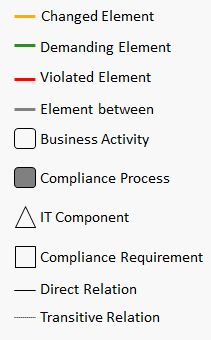
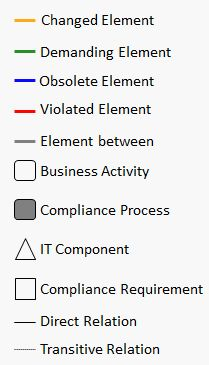
Legende Analyse angepasst

Changed region(s): [[0.0574, 0.2059, 0.9761, 0.9706], [0.0574, 0.1176, 0.8325, 0.1765], [0.0574, 0.0294, 0.7464, 0.0882]]

diff --git a/src/app/control/analyze-helper.js b/src/app/control/analyze-helper.js
@@ -26,13 +26,18 @@ function replaceITDirect(graph, node, result_graph) {
   for (let i = 0; i < predecessors.length; i++) {
     let pred = predecessors[i];
 
-    if (pred.data('nodetype') == 'compliance') {
+    if (pred.data('nodetype') === 'compliance') {
       creategraph.addUniqueNode(result_graph, {node: pred}, 'directdemand');
 
       let nodes_between = querygraph.getNodesBetween(pred, _node);
       for (let j = 0; j < nodes_between.length; j++) {
         let node = nodes_between[j];
-        creategraph.addUniqueNode(result_graph, {node: node}, 'between');
+
+        if (node.data('nodetype') === 'compliance') {
+          creategraph.addUniqueNode(result_graph, {node: node}, 'directdemand');
+        } else {
+          creategraph.addUniqueNode(result_graph, {node: node}, 'between');
+        }
       }
     }
   }
@@ -142,7 +147,7 @@ function deleteITObsolete(graph, node, result_graph) {
     for (let j = 0; j < dir_IT_pred.length; j++) {
       let help_node = dir_IT_pred[j];
 
-      if (help_node.data('modeltype') == 'compliance') {
+      if (help_node.data('modeltype') === 'compliance') {
         let addNode = containNoOtherNode(querygraph.getDirectSuccessor(help_node), IT_suc);
 
         if (addNode) { // if compliance has more than one successor, dont remove it

diff --git a/src/app/control/rendergraph.js b/src/app/control/rendergraph.js
@@ -238,7 +238,6 @@ function updateBusinessProcess(node) {
 
   let dir_comp_preds = querygraph.getDirectPredecessor(changed_node, 'compliance');
   for (let i = 0; i < dir_comp_preds.length; i++) {
-
     let compliance = dir_comp_preds[i];
 
     let x_compliance = x_changed + (i + 1) * 100;
@@ -265,6 +264,19 @@ function updateBusinessProcess(node) {
         drawCompliancePreds(pred, comp_preds);
       }
     }
+  }
+
+  //draw IT preds vertical
+  let it_preds = querygraph.getPredecessors(changed_node, 'infra');
+  for (let i = 0; i < it_preds.length; i++) {
+    let infra = it_preds[i];
+
+    let x_infra = x_changed;
+    let y_infra = y_changed - (i + 1) * 100;
+    infra.position({x: x_infra, y: y_infra});
+    //draw compliance preds horizontal
+    let comp_preds = querygraph.getPredecessors(infra, 'compliance');
+    drawCompliancePreds(infra, comp_preds);
   }
 }
 

diff --git a/app/app.html b/app/app.html
@@ -78,7 +78,7 @@
   <div class="container-properties" id="infra-panel" draggable="true">
     <div class="bpp-properties-group" data-group="complianceGrp">
       <span class="group-toggle"></span>
-      <span class="group-label">Infrastructure</span>
+      <span class="group-label">IT Architecture</span>
       <div class="bpp-properties-entry bpp-textfield" data-entry="id">
         <label for="infra-id">Id</label>
         <div class="bpp-field-wrapper">
@@ -196,7 +196,7 @@
       </div>
       <div class="legend">
         <p>Legend</p>
-        <img src="./../resources/picture/legendAnalyze.jpg" style="width:180px;height:290px;">
+        <img src="./../resources/picture/legendAnalyze.jpg" style="width:180px;height:314px;">
       </div>
     </div>
   </div>
